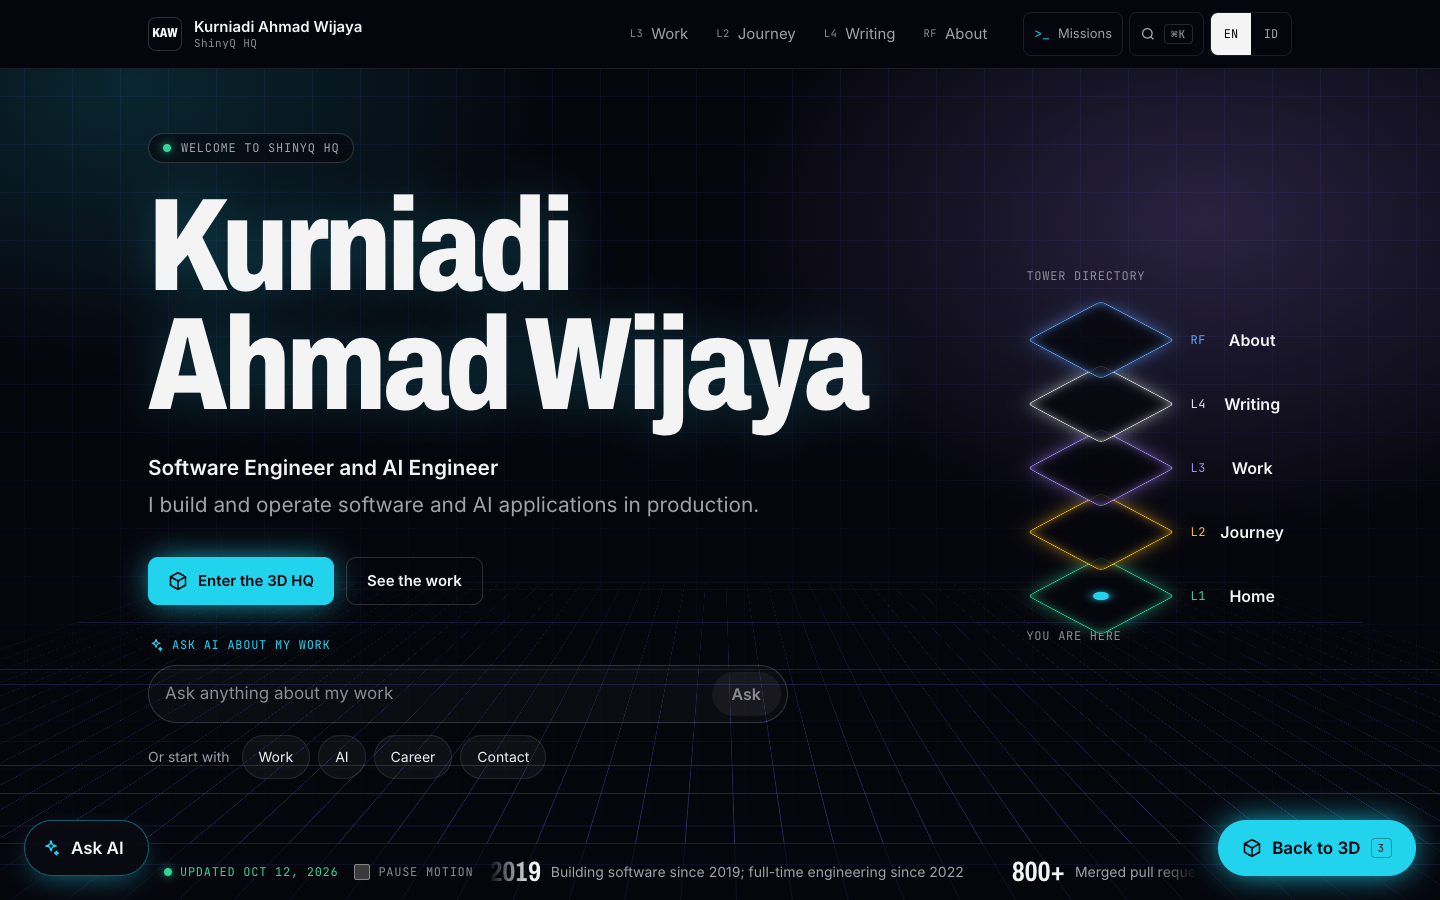
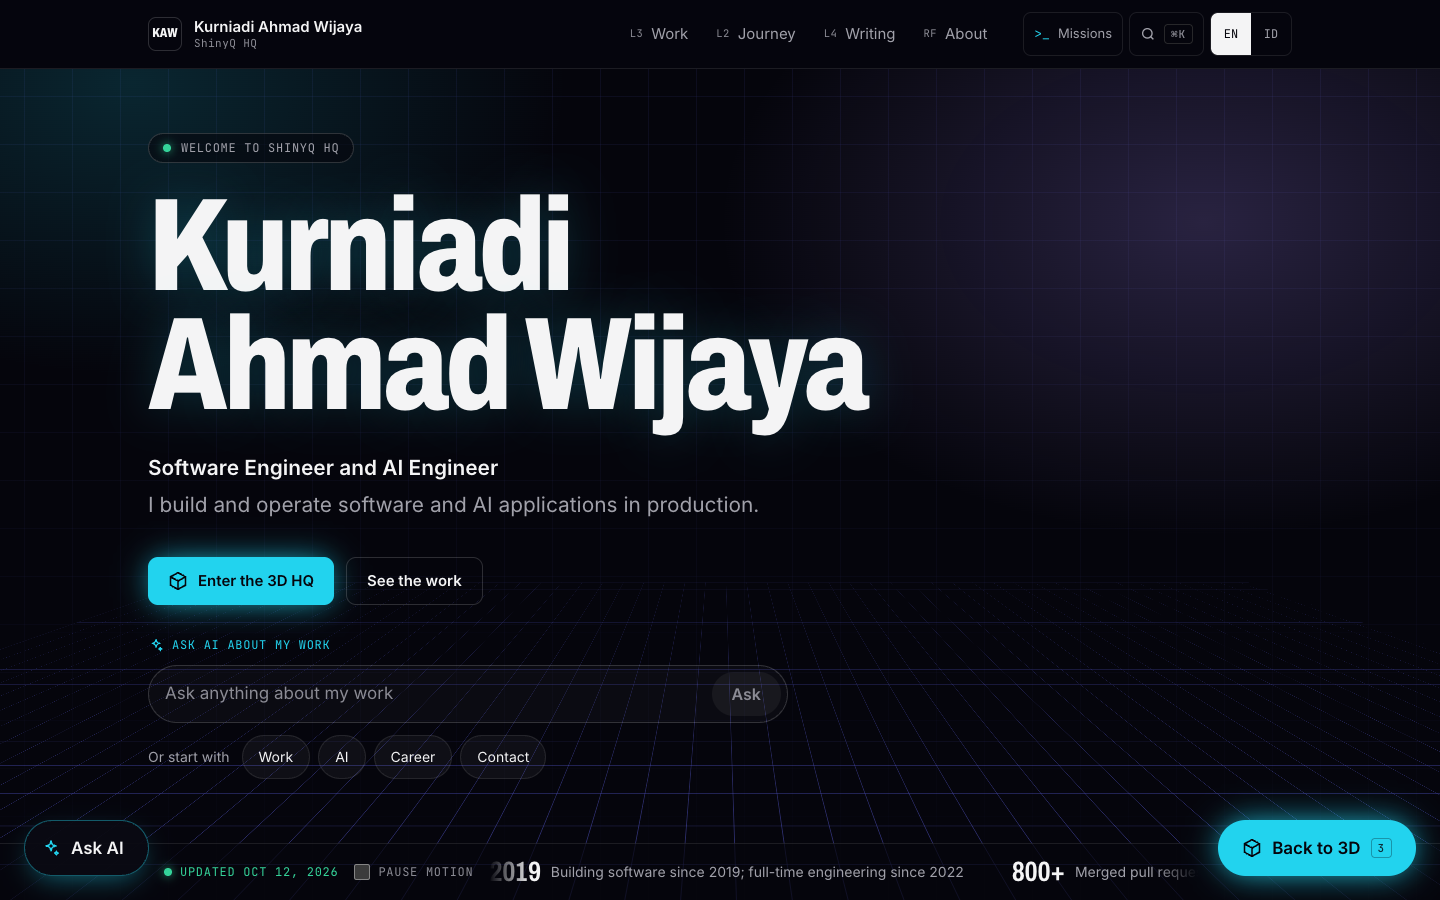
feat(pageview): drop the hero tower directory; name and calls to action span the hero

diff --git a/docs/design/landing/home.html b/docs/design/landing/home.html
@@ -17,7 +17,7 @@
 <div class="hx">
 <div class="hx-bg" aria-hidden="true"><div class="hx-glow"></div><div class="hx-ground"><div class="hx-ground-grid"></div></div><i class="hx-packet"></i><i class="hx-packet"></i><i class="hx-packet"></i></div>
 <section aria-labelledby="hero-title" class="pv-wrap hx-main m-hero">
-<div class="m-c8">
+<div>
 <p class="pv-data hx-eyebrow"><span class="hx-dot" aria-hidden="true"></span>Welcome to ShinyQ HQ</p>
 <h1 id="hero-title" class="pv-d-xl hx-name" style="margin-top:24px">Kurniadi Ahmad Wijaya</h1>
 <p class="pv-lead" style="margin-top:28px;font-weight:600">Software Engineer and AI Engineer</p>
@@ -25,7 +25,6 @@
 <div class="m-row" style="margin-top:36px"><a href="#" class="pv-btn hx-enter" title="Drive a rover through the five-floor tower"><svg width="20" height="20" viewBox="0 0 24 24" fill="none" stroke="currentColor" stroke-width="2" aria-hidden="true"><path d="M12 2 3 7v10l9 5 9-5V7l-9-5z"/><path d="M3 7l9 5 9-5M12 12v10"/></svg>Enter the 3D HQ</a><a href="#" class="pv-btn pv-btn-ghost">See the work</a></div>
 <div class="m-ask"><label class="pv-data m-ask-label"><svg aria-hidden="true" viewBox="0 0 24 24" width="16" height="16" fill="none" stroke="currentColor" stroke-width="1.8" stroke-linejoin="round"><path d="M12 3.5c.5 3.9 2.1 5.5 6 6-3.9.5-5.5 2.1-6 6-.5-3.9-2.1-5.5-6-6 3.9-.5 5.5-2.1 6-6Z"/></svg>Ask AI about my work</label><form class="m-ask-form" role="search"><input class="m-ask-input" placeholder="Ask anything about my work"><button type="button" class="m-ask-send">Ask</button></form><div class="m-row" style="margin-top:12px"><span class="pv-small">Or start with</span><button type="button" class="chip">Work</button><button type="button" class="chip">AI</button><button type="button" class="chip">Career</button><button type="button" class="chip">Contact</button></div></div>
 </div>
-<div class="m-c4"><nav aria-label="Tower directory" class="hx-tower"><p class="pv-data" style="margin-bottom:24px">Tower directory</p><ol class="hx-floors"><li class="text-blue"><a href="#" class="hx-level"><span aria-hidden="true" class="hx-slab"></span><span class="pv-data hx-code">RF</span><span class="hx-level-name">About</span></a></li><li class="text-white"><a href="#" class="hx-level"><span aria-hidden="true" class="hx-slab"></span><span class="pv-data hx-code">L4</span><span class="hx-level-name">Writing</span></a></li><li class="text-violet"><a href="#" class="hx-level"><span aria-hidden="true" class="hx-slab"></span><span class="pv-data hx-code">L3</span><span class="hx-level-name">Work</span></a></li><li class="text-amber"><a href="#" class="hx-level"><span aria-hidden="true" class="hx-slab"></span><span class="pv-data hx-code">L2</span><span class="hx-level-name">Journey</span></a></li><li class="text-green"><a href="#" class="hx-level" aria-current="page"><span aria-hidden="true" class="hx-slab"></span><span class="pv-data hx-code">L1</span><span class="hx-level-name">Home</span><span class="pv-data">You are here</span></a></li></ol></nav></div>
 </section>
 <section id="stats" aria-labelledby="stats-title" class="hx-tick"><h2 id="stats-title" class="sr-only">At a glance</h2><div class="pv-wrap hx-tick-bar"><p class="pv-data hx-tick-updated"><span class="hx-dot" aria-hidden="true"></span>Updated Oct 12, 2026</p><div class="hx-tick-view"><ul class="hx-tick-track"><li class="hx-tick-item"><span class="pv-num hx-tick-value">2019</span><span class="hx-tick-label">Building software since 2019; full-time engineering since 2022</span></li><li class="hx-tick-item"><span class="pv-num hx-tick-value">800+</span><span class="hx-tick-label">Merged pull requests in 2026</span></li><li class="hx-tick-item"><span class="pv-num hx-tick-value">7,573</span><span class="hx-tick-label">GitHub contributions over the last 365 days (agent-assisted, human-reviewed)</span><span class="pv-data hx-tick-live">Live</span></li><li class="hx-tick-item"><span class="pv-num hx-tick-value">3</span><span class="hx-tick-label">Microsoft certifications: AI-103, AI-901, AZ-900</span></li><li class="hx-tick-item"><span class="pv-num hx-tick-value">20</span><span class="hx-tick-label">Competition placings, including 7 first places (2018 to 2022)</span></li><li class="hx-tick-item"><span class="pv-num hx-tick-value">10x</span><span class="hx-tick-label">Faster voice-agent interruption: ~2 s to ~0.2 s (controlled A/B)</span></li></ul><ul class="hx-tick-track" aria-hidden="true"><li class="hx-tick-item"><span class="pv-num hx-tick-value">2019</span><span class="hx-tick-label">Building software since 2019; full-time engineering since 2022</span></li><li class="hx-tick-item"><span class="pv-num hx-tick-value">800+</span><span class="hx-tick-label">Merged pull requests in 2026</span></li><li class="hx-tick-item"><span class="pv-num hx-tick-value">7,573</span><span class="hx-tick-label">GitHub contributions over the last 365 days (agent-assisted, human-reviewed)</span><span class="pv-data hx-tick-live">Live</span></li><li class="hx-tick-item"><span class="pv-num hx-tick-value">3</span><span class="hx-tick-label">Microsoft certifications: AI-103, AI-901, AZ-900</span></li><li class="hx-tick-item"><span class="pv-num hx-tick-value">20</span><span class="hx-tick-label">Competition placings, including 7 first places (2018 to 2022)</span></li><li class="hx-tick-item"><span class="pv-num hx-tick-value">10x</span><span class="hx-tick-label">Faster voice-agent interruption: ~2 s to ~0.2 s (controlled A/B)</span></li></ul></div><label class="pv-data hx-pause"><input type="checkbox" class="hx-pause-box">Pause motion</label></div></section>
 </div>

diff --git a/docs/design/landing/gen-landing.ts b/docs/design/landing/gen-landing.ts
@@ -1,7 +1,7 @@
 // Landing mockup for the owner's sign-off (not shipped). Run from the repo root:
 //   bun docs/design/landing/gen-landing.ts
 // Real dataset, real messages and the real stylesheets (src/app/pageview.css, src/app/landing.css).
-// The markup mirrors src/components/page/{Hero,HeroTower,StatTicker,Featured}.tsx.
+// The markup mirrors src/components/page/{Hero,StatTicker,Featured}.tsx.
 import { writeFileSync } from "node:fs";
 import path from "node:path";
 import { createTranslator } from "next-intl";
@@ -37,18 +37,6 @@ const header = `<header class="site-header"><div class="wrap bar">
 <nav aria-label="${esc(t("nav.label"))}"><ul class="nav">${NAV.map((n) => `<li><a href="#" style="--fc:var(--${FLOOR_ACCENT[n.floor]})"><span class="fl">${n.floor}</span>${esc(t(`nav.${n.key}`))}</a></li>`).join("")}</ul></nav>
 <div class="tools"><button class="icon-btn hide-sm" type="button"><span aria-hidden="true" style="font-family:var(--mono);color:var(--cyan)">&gt;_</span>${esc(t("hud.launcher.missions"))}</button><nav aria-label="${esc(t("nav.language"))}" class="lang"><a href="#" aria-current="true">EN</a><a href="#">ID</a></nav></div>
 </div><nav aria-label="${esc(t("nav.mobile"))}" class="mobile-nav">${NAV.map((n) => `<a href="#" style="--fc:var(--${FLOOR_ACCENT[n.floor]})">${esc(t(`nav.${n.key}`))}</a>`).join("")}</nav></header>`;
-
-// Elevator floor names (hud.floorLabel), as in src/components/page/Hero.tsx.
-const tower = [
-  ...(["RF", "L4", "L3", "L2"] as const).map((floor) => ({ floor, label: t(`hud.floorLabel.${floor}`), current: false })),
-  { floor: "L1" as const, label: t("hud.floorLabel.L1"), current: true },
-];
-const towerHtml = `<nav aria-label="${esc(t("home.directoryTitle"))}" class="hx-tower"><p class="pv-data" style="margin-bottom:24px">${esc(t("home.directoryTitle"))}</p><ol class="hx-floors">${tower
-  .map(
-    (f) =>
-      `<li class="${ACCENT_TEXT[FLOOR_ACCENT[f.floor]]}"><a href="#" class="hx-level"${f.current ? ' aria-current="page"' : ""}><span aria-hidden="true" class="hx-slab"></span><span class="pv-data hx-code">${f.floor}</span><span class="hx-level-name">${esc(f.label)}</span>${f.current ? `<span class="pv-data">${esc(t("home.hero.here"))}</span>` : ""}</a></li>`,
-  )
-  .join("")}</ol></nav>`;
 
 const askBar = `<div class="m-ask"><label class="pv-data m-ask-label">${SPARK}${esc(t("ask.hero.label"))}</label><form class="m-ask-form" role="search"><input class="m-ask-input" placeholder="${esc(t("ask.hero.placeholder"))}"><button type="button" class="m-ask-send">${esc(t("ask.hero.submit"))}</button></form><div class="m-row" style="margin-top:12px"><span class="pv-small">${esc(t("ask.hero.topicsLabel"))}</span>${(["work", "ai", "career", "contact"] as const).map((k) => `<button type="button" class="chip">${esc(t(`ask.topics.${k}`))}</button>`).join("")}</div></div>`;
 
@@ -88,7 +76,7 @@ ${header}
 <div class="hx">
 <div class="hx-bg" aria-hidden="true"><div class="hx-glow"></div><div class="hx-ground"><div class="hx-ground-grid"></div></div><i class="hx-packet"></i><i class="hx-packet"></i><i class="hx-packet"></i></div>
 <section aria-labelledby="hero-title" class="pv-wrap hx-main m-hero">
-<div class="m-c8">
+<div>
 <p class="pv-data hx-eyebrow"><span class="hx-dot" aria-hidden="true"></span>${esc(t("home.hero.welcome", { site: t("meta.siteName") }))}</p>
 <h1 id="hero-title" class="pv-d-xl hx-name" style="margin-top:24px">${esc(profile.name)}</h1>
 <p class="pv-lead" style="margin-top:28px;font-weight:600">${esc(profile.headline[L])}</p>
@@ -96,7 +84,6 @@ ${header}
 <div class="m-row" style="margin-top:36px"><a href="#" class="pv-btn hx-enter" title="${esc(t("home.hero.enter3dHint"))}">${CUBE}${esc(t("home.hero.enter3d"))}</a><a href="#" class="pv-btn pv-btn-ghost">${esc(t("home.seeWork"))}</a></div>
 ${askBar}
 </div>
-<div class="m-c4">${towerHtml}</div>
 </section>
 ${ticker}
 </div>

diff --git a/src/components/page/Hero.tsx b/src/components/page/Hero.tsx
@@ -1,32 +1,20 @@
 import type { ReactNode } from "react";
 import { getTranslations } from "next-intl/server";
-import { PRIMARY_NAV } from "@/components/SiteHeader";
 import { getProfile } from "@/content/load";
 import type { Locale } from "@/content/schema";
 import { Link } from "@/i18n/navigation";
-import { FLOOR_ACCENT } from "@/lib/accent";
 import { AskHeroBar } from "./AskEntry";
 import { EnterHqButton } from "./EnterHqButton";
-import { HeroTower, type TowerFloor } from "./HeroTower";
-
-/** Tower directory order above the Lobby, top floor first. */
-const UPPER_FLOORS = ["RF", "L4", "L3", "L2"] as const;
 
 /**
  * Landing hero: the name over the Neon Grid backdrop (CSS only, src/app/landing.css), the two ways in
- * (Enter the 3D HQ and the Ask AI bar), the tower directory from lg, and the stats ticker at the bottom
- * of the first screen. Server-rendered; EnterHqButton and AskHeroBar are the only islands.
+ * (Enter the 3D HQ and the Ask AI bar) across the full width, and the stats ticker at the bottom of the
+ * first screen. Server-rendered; EnterHqButton and AskHeroBar are the only islands.
  */
 export async function HomeHero({ locale, ticker }: { locale: Locale; ticker: ReactNode }) {
   const t = await getTranslations({ locale, namespace: "home" });
-  // The elevator's floor names (Home, Journey, Work, Writing, About), as in the 3D HUD.
-  const th = await getTranslations({ locale, namespace: "hud" });
   const tm = await getTranslations({ locale, namespace: "meta" });
   const profile = getProfile();
-  const floors: TowerFloor[] = [
-    ...UPPER_FLOORS.map((floor) => ({ floor, label: th(`floorLabel.${floor}`), href: PRIMARY_NAV.find((entry) => entry.floor === floor)!.href, accent: FLOOR_ACCENT[floor] })),
-    { floor: "L1", label: th("floorLabel.L1"), href: "/", accent: FLOOR_ACCENT.L1, current: true },
-  ];
 
   return (
     <div className="hx">
@@ -39,8 +27,8 @@ export async function HomeHero({ locale, ticker }: { locale: Locale; ticker: Rea
         <i className="hx-packet" />
         <i className="hx-packet" />
       </div>
-      <section aria-labelledby="hero-title" className="pv-wrap hx-main grid flex-1 content-start gap-12 py-10 sm:py-14 md:grid-cols-12 md:gap-6 md:pt-16 lg:content-center lg:pt-14">
-        <div className="min-w-0 md:col-span-7 lg:col-span-8">
+      <section aria-labelledby="hero-title" className="pv-wrap hx-main grid flex-1 content-start py-10 sm:py-14 md:pt-16 lg:content-center lg:pt-14">
+        <div className="min-w-0">
           <p className="pv-data hx-eyebrow">
             <span className="hx-dot" aria-hidden="true" />
             {t("hero.welcome", { site: tm("siteName") })}
@@ -57,9 +45,6 @@ export async function HomeHero({ locale, ticker }: { locale: Locale; ticker: Rea
             </Link>
           </div>
           <AskHeroBar />
-        </div>
-        <div className="hidden md:col-span-5 md:flex md:items-center md:justify-end lg:col-span-4">
-          <HeroTower title={t("directoryTitle")} here={t("hero.here")} floors={floors} />
         </div>
       </section>
       {ticker}

diff --git a/src/app/landing.css b/src/app/landing.css
@@ -140,97 +140,11 @@
     display: inline-flex;
   }
 
-  /* Tower directory: five stacked floor slabs, top floor first. */
-  .hx-tower {
-    animation: hx-float 7s ease-in-out 0.5s infinite alternate both;
-  }
-
-  .hx-floors,
   .hx-tick-track,
   .hx-film {
     margin: 0;
     padding: 0;
     list-style: none;
-  }
-
-  .hx-floors > li {
-    position: relative;
-  }
-
-  .hx-floors > li:nth-child(1) {
-    z-index: 5;
-  }
-
-  .hx-floors > li:nth-child(2) {
-    z-index: 4;
-  }
-
-  .hx-floors > li:nth-child(3) {
-    z-index: 3;
-  }
-
-  .hx-floors > li:nth-child(4) {
-    z-index: 2;
-  }
-
-  .hx-floors > li:nth-child(5) {
-    z-index: 1;
-  }
-
-  .hx-level {
-    display: grid;
-    grid-template-columns: 150px auto auto;
-    align-items: center;
-    column-gap: 14px;
-    min-height: 64px;
-    padding-right: 8px;
-    border-radius: 10px;
-  }
-
-  .hx-slab {
-    position: relative;
-    justify-self: center;
-    width: 104px;
-    height: 104px;
-    margin-block: -20px;
-    border: 1.5px solid currentColor;
-    border-radius: 6px;
-    background: rgb(5 5 12 / 0.78);
-    box-shadow:
-      0 0 28px -8px currentColor,
-      inset 0 0 18px -6px currentColor;
-    transform: rotateX(58deg) rotateZ(-45deg);
-    transition:
-      transform 200ms var(--ease-standard),
-      box-shadow 200ms var(--ease-standard);
-  }
-
-  .hx-level:hover .hx-slab,
-  .hx-level:focus-visible .hx-slab {
-    transform: rotateX(58deg) rotateZ(-45deg) translate3d(-6px, -6px, 0);
-    box-shadow:
-      0 0 44px -6px currentColor,
-      inset 0 0 24px -4px currentColor;
-  }
-
-  /* The rover on L1: you are here. */
-  .hx-level[aria-current="page"] .hx-slab::after {
-    content: "";
-    position: absolute;
-    inset: 42%;
-    border-radius: 50%;
-    background: var(--color-cyan);
-    box-shadow: 0 0 12px var(--color-cyan);
-    animation: hx-pulse 1.6s ease-in-out 0.5s infinite;
-  }
-
-  .hx-code {
-    color: inherit;
-  }
-
-  .hx-level-name {
-    font-weight: 600;
-    color: var(--color-ink);
   }
 
   /* Stats ticker band at the bottom of the first screen (#stats). */
@@ -406,12 +320,6 @@
     }
   }
 
-  @keyframes hx-float {
-    to {
-      transform: translateY(-10px);
-    }
-  }
-
   @keyframes hx-marquee {
     to {
       transform: translateX(calc(-100% - 48px));
@@ -419,8 +327,7 @@
   }
 
   /* "Pause motion" (a native checkbox in the ticker) stops every hero animation. */
-  .hx:has(.hx-pause-box:checked) :is(.hx-glow, .hx-ground-grid, .hx-packet, .hx-dot, .hx-tower, .hx-tick-track),
-  .hx:has(.hx-pause-box:checked) .hx-level[aria-current="page"] .hx-slab::after {
+  .hx:has(.hx-pause-box:checked) :is(.hx-glow, .hx-ground-grid, .hx-packet, .hx-dot, .hx-tick-track) {
     animation-play-state: paused;
   }
 
@@ -430,9 +337,7 @@
     .hx-glow,
     .hx-ground-grid,
     .hx-dot,
-    .hx-tower,
-    .hx-tick-track,
-    .hx-level[aria-current="page"] .hx-slab::after {
+    .hx-tick-track {
       animation: none;
     }
 

diff --git a/docs/design/landing/mock.css b/docs/design/landing/mock.css
@@ -50,7 +50,6 @@
 .sr-only { position: absolute; width: 1px; height: 1px; overflow: hidden; clip: rect(0 0 0 0); white-space: nowrap; }
 .m-row { display: flex; flex-wrap: wrap; align-items: center; gap: 12px; }
 .m-hero { display: grid; flex: 1; align-content: center; gap: 48px; padding-block: 40px; }
-.m-c4 { display: none; }
 .m-head { display: flex; flex-wrap: wrap; align-items: end; justify-content: space-between; gap: 8px 24px; margin-bottom: 40px; }
 .m-feat { display: grid; gap: 56px 24px; }
 .m-meta { display: flex; flex-wrap: wrap; gap: 4px 16px; }
@@ -62,17 +61,13 @@
 .m-ask-send { min-height: 44px; padding: 0 20px; border: 0; border-radius: 999px; background: var(--surface-2); color: var(--ink-3); font: inherit; font-weight: 600; }
 
 @media (min-width: 768px) {
-  .m-hero { grid-template-columns: repeat(12, minmax(0, 1fr)); gap: 24px; align-content: start; padding-top: 64px; padding-bottom: 56px; }
-  .m-c8 { grid-column: span 7; }
-  .m-c4 { display: flex; grid-column: span 5; align-items: center; justify-content: flex-end; }
+  .m-hero { align-content: start; padding-top: 64px; padding-bottom: 56px; }
   .m-feat { grid-template-columns: 1fr 1fr; }
   .m-lead { grid-column: span 2; }
 }
 
 @media (min-width: 1024px) {
   .m-hero { align-content: center; padding-top: 56px; }
-  .m-c8 { grid-column: span 8; }
-  .m-c4 { grid-column: span 4; }
   .m-feat { grid-template-columns: repeat(12, minmax(0, 1fr)); }
   .m-lead { grid-column: span 7; grid-row: span 2; }
   .m-side { grid-column: span 5; }

diff --git a/e2e/pageview.spec.ts b/e2e/pageview.spec.ts
@@ -253,5 +253,4 @@ test("landing: three featured projects with their screenshots, the stats ticker,
   await expect(ticker).toHaveAttribute("id", "stats");
   for (const stat of data.stats) await expect(ticker.getByRole("listitem").filter({ hasText: stat.label.en })).toHaveCount(1);
   await expect(page.getByTestId("enter-hq")).toBeHidden();
-  await expect(page.getByRole("navigation", { name: en.home.directoryTitle }).getByRole("link")).toHaveCount(5);
 });

diff --git a/README.md b/README.md
@@ -19,9 +19,7 @@ ShinyQ HQ is an explorable 3D neon tower ("Agent HQ"): pilot a small Screen Rove
 
 Try it: open `/en`, press **Boot rover**, drive with WASD or the arrow keys (or click the floor), and change floors with the elevator panel (every button is named after its page: L1 Home, L2 Journey, L3 Work, L4 Writing, RF About), the mouse wheel or PageUp/PageDown. Every floor also has a glowing call pad in front of the elevator door: stop on it (or click it) and pick a floor from a list with previews. Add `?tier=lite` or `?tier=static` to force a tier, and use **Page view** to read the page without 3D.
 
-The Page View home opens on a cinematic first screen: the name over an animated Neon Grid (CSS only, still under reduced motion, with a Pause motion switch), **Enter the 3D HQ** (shown wherever WebGL2 is available), the **Ask AI** bar, the tower directory and a live stats ticker, followed by three featured projects with their screenshots. The Rover Terminal never opens on its own over the Page View; it greets first-time visitors in the 3D Lobby after the intro, and the **Missions** button opens it anywhere.
-
-The Page View home opens on a cinematic first screen: the name over an animated Neon Grid (CSS only, still under reduced motion, with a Pause motion switch), **Enter the 3D HQ** (shown wherever WebGL2 is available), the **Ask AI** bar, the tower directory and a live stats ticker, followed by three featured projects with their screenshots. The Rover Terminal never opens on its own over the Page View; it greets first-time visitors in the 3D Lobby after the intro, and the **Missions** button opens it anywhere.
+The Page View home opens on a cinematic first screen: the name over an animated Neon Grid (CSS only, still under reduced motion, with a Pause motion switch), **Enter the 3D HQ** (shown wherever WebGL2 is available), the **Ask AI** bar and a live stats ticker, followed by three featured projects with their screenshots. The Rover Terminal never opens on its own over the Page View; it greets first-time visitors in the 3D Lobby after the intro, and the **Missions** button opens it anywhere.
 
 Driving into a room door (or picking it from Cmd-K) opens the Glass Drawer: a side panel on desktop (480 to 600 px wide, growing with the screen) or a bottom sheet on phones and portrait tablets. Its bar keeps the room code, prev/next, the "..." menu (README view, also on `t`) and close; the title and tabs scroll with the content, and the tabs stick under the bar, so the room body gets most of the height.
 
@@ -66,7 +64,7 @@ All routes are locale-prefixed (`/en/...`, `/id/...`). `/` redirects by the reme
 
 | Route | Content |
 |---|---|
-| `/{locale}` | Lobby: cinematic hero (name over a CSS-only animated Neon Grid, Enter the 3D HQ, Ask AI, tower directory), live stats ticker (`#stats`), three featured projects with screenshots and the other key projects (`#work`), a short intro with the current role (`#intro`), latest journey, writing, skills, certifications (3 featured cards and the newest rows; the full, filterable list is on `/{locale}/contact`). Mounts the 3D tower on top when WebGL is available. |
+| `/{locale}` | Lobby: cinematic hero (name over a CSS-only animated Neon Grid, Enter the 3D HQ, Ask AI), live stats ticker (`#stats`), three featured projects with screenshots and the other key projects (`#work`), a short intro with the current role (`#intro`), latest journey, writing, skills, certifications (3 featured cards and the newest rows; the full, filterable list is on `/{locale}/contact`). Mounts the 3D tower on top when WebGL is available. |
 | `/{locale}/quick` | Quick view: everything on one page |
 | `/{locale}/journey`, `/{locale}/journey/{slug}` | Career Archive 2019 to 2026 and the Workshop annex; in 3D, the L2 Career Road (a slug deep link opens that room at its door) |
 | `/{locale}/labs`, `/{locale}/labs/{slug}` | Product Engineering and AI Engineering case studies; in 3D, L3 Project Roads (a slug deep link opens that pod at its door) |

diff --git a/AGENTS.md b/AGENTS.md
@@ -217,7 +217,7 @@ e2e/                            Playwright: static routes, Page View (pageview.s
 - Layout: `pv-wrap` container (1240 px), 12 columns from `lg`, a 4-column sticky sidehead plus 8 columns of content (`SectionSplit`), ruled rows (`pv-rows`) instead of card grids. Floor and wing colors only mark wayfinding (`Marker`, the active nav rule); never fill surfaces with them.
 - Filters (`WorkIndex`, `JourneyFilter`) are client islands over server-rendered rows: rows carry `data-pod`/`data-wing`/`data-stack` (`podAttrs`) or `data-entry`/`data-type`/`data-year`, the islands only toggle `hidden`, and the query string (`?wing=`, `?stack=`, `?type=`) is the state, so links and reloads keep the view and `?tier=` survives. Without JS everything stays visible.
 - Back to 3D stays owned by `ExperienceGate`; the footer keeps 112 px of bottom padding for it.
-- Landing (home hero): `HomeHero` (`src/components/page/Hero.tsx`) composes the CSS-only backdrop, `EnterHqButton` (client; a real link to `/{locale}?tier=lite` that sends `enterHq()` once the gate's tier is known, shown only under `html[data-hq-3d]`), `AskHeroBar` (visible "Ask AI about my work" label), `HeroTower` (tower directory from md, floor names from `hud.floorLabel`, the elevator's names) and the `StatTicker` band (`#stats`, live stats from `DYNAMIC_STATS` marked, "Updated" from `dynamic-facts.json` `asOf`). From sm the ticker bar keeps the floating "Ask AI" and "Back to 3D" columns free; on phones the hero fills the first screen and the ticker starts below it. Featured projects: `pickFeaturedPods(getPods())` (the first three pods with a gallery, in `orderPods` order) rendered by `FeaturedProject` (`src/components/page/Featured.tsx`); other key projects follow as `WorkRow`s. Styles live in `src/app/landing.css` (`hx-` classes): animate only `transform` and `opacity`, start after 0.5 s, stop under reduced motion (the ticker then wraps, no scroll region) and with the ticker's "Pause motion" checkbox, never animate the `h1` (LCP). Mockup and captures: `docs/design/landing/` (`bun docs/design/landing/gen-landing.ts`, built captures in `built/` from `bun run screenshots:pages`).
+- Landing (home hero): `HomeHero` (`src/components/page/Hero.tsx`) composes the CSS-only backdrop, `EnterHqButton` (client; a real link to `/{locale}?tier=lite` that sends `enterHq()` once the gate's tier is known, shown only under `html[data-hq-3d]`), `AskHeroBar` (visible "Ask AI about my work" label) across the full width (owner decision: no illustration beside the name), and the `StatTicker` band (`#stats`, live stats from `DYNAMIC_STATS` marked, "Updated" from `dynamic-facts.json` `asOf`). From sm the ticker bar keeps the floating "Ask AI" and "Back to 3D" columns free; on phones the hero fills the first screen and the ticker starts below it. Featured projects: `pickFeaturedPods(getPods())` (the first three pods with a gallery, in `orderPods` order) rendered by `FeaturedProject` (`src/components/page/Featured.tsx`); other key projects follow as `WorkRow`s. Styles live in `src/app/landing.css` (`hx-` classes): animate only `transform` and `opacity`, start after 0.5 s, stop under reduced motion (the ticker then wraps, no scroll region) and with the ticker's "Pause motion" checkbox, never animate the `h1` (LCP). Mockup and captures: `docs/design/landing/` (`bun docs/design/landing/gen-landing.ts`, built captures in `built/` from `bun run screenshots:pages`).
 
 ## Styling
 
